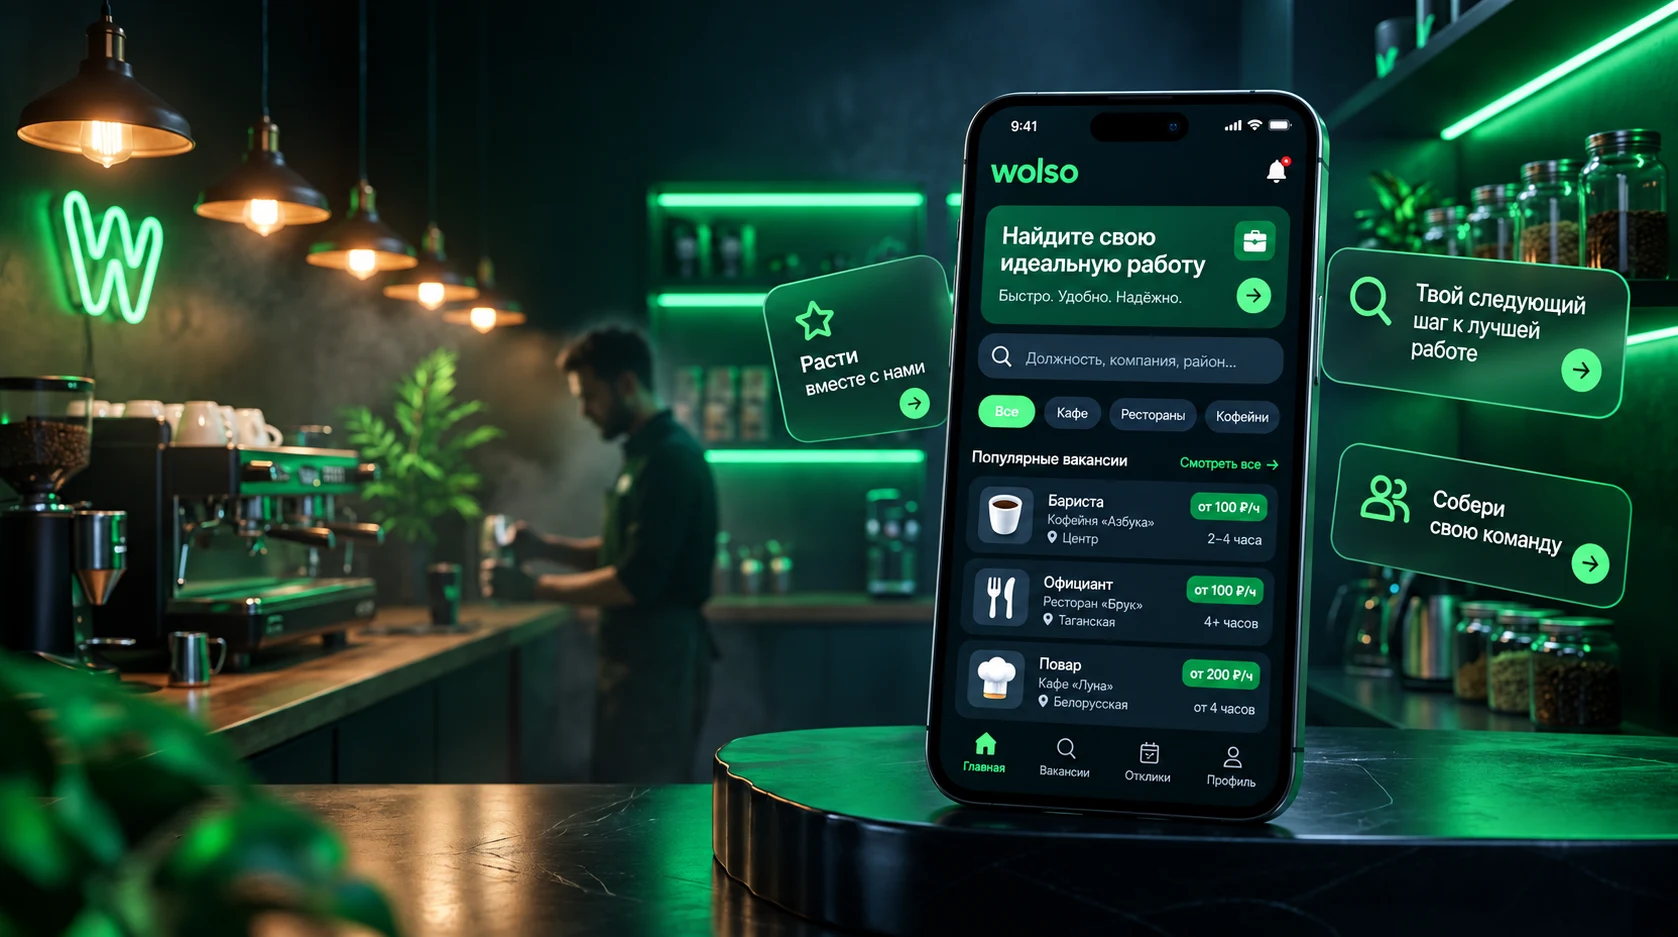
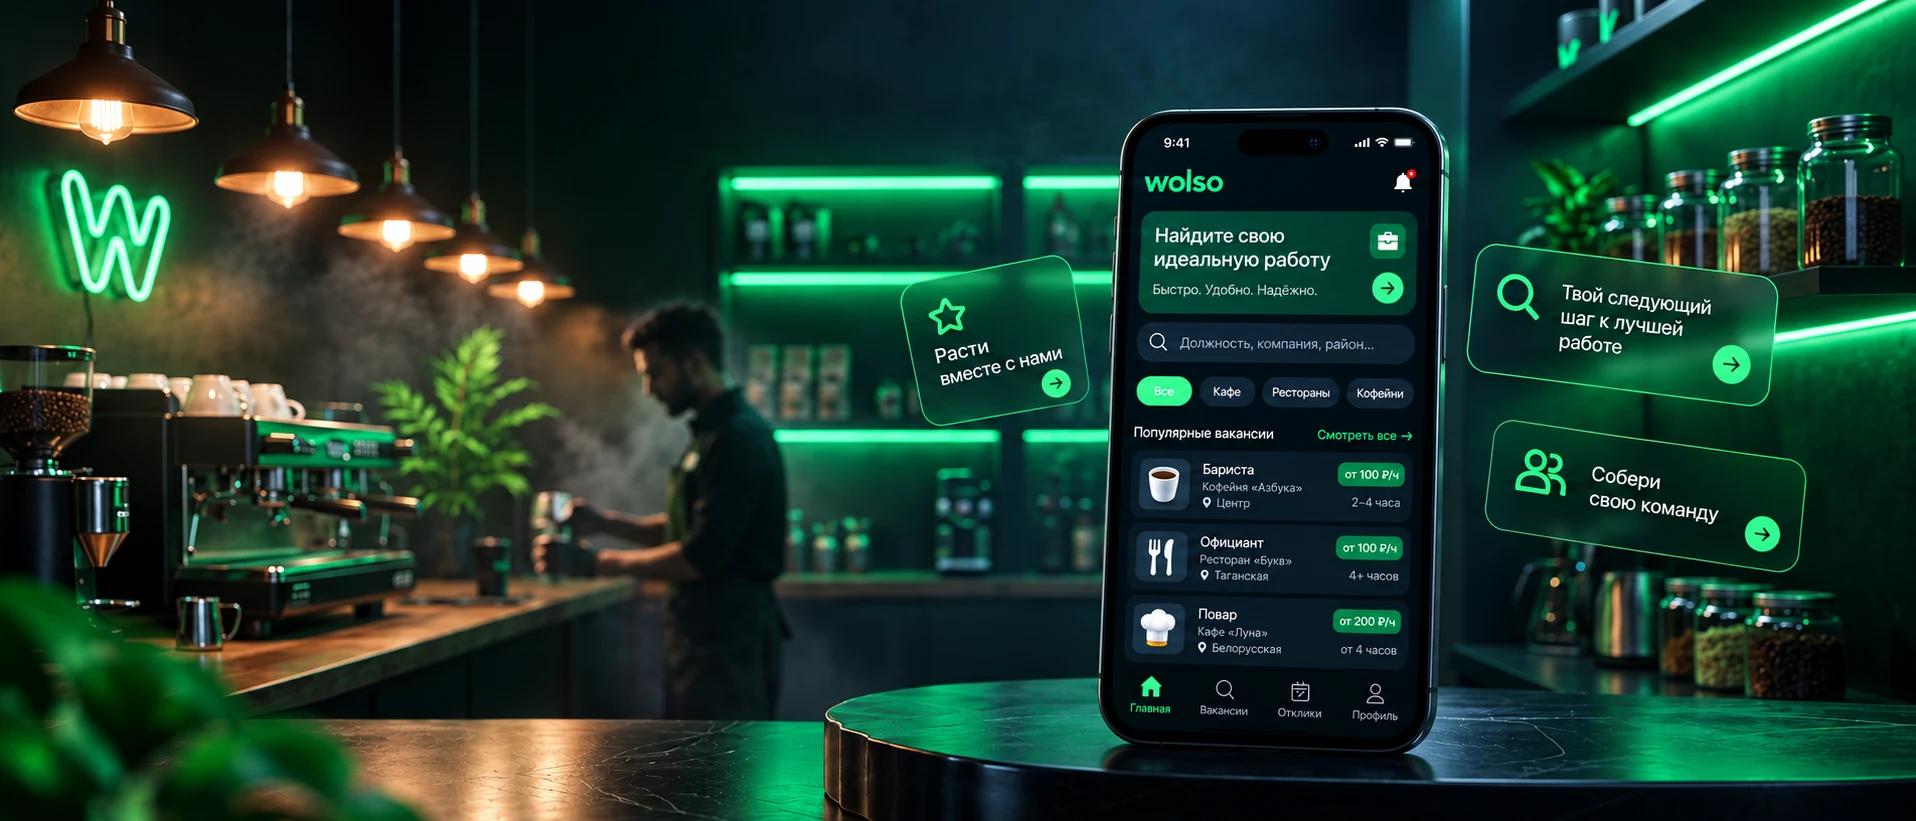
Лендинг: баннер 21:9 в герое
Новый кадр 1916x821 (2.334:1) вместо прежнего 16:9. WebP 162 КБ,
исходный PNG на 1.8 МБ убран в art-source.

Высота панели пересчитана под пропорции баннера, чтобы кадр вставал
целиком. Правый край картинки прижат к краю панели: если она всё же
не влезает по ширине, срезается только левая часть с интерьером,
поверх которого и так лежит текст, а телефон с карточками остаются
целы. На 1920 и 1440 обрезки нет вовсе, на 1200 — 11% слева.

Бегущая строка должностей вынесена из панели наружу: внутри она либо
добавляла высоты (панель становилась «квадратнее» баннера, и cover
срезал картинку по бокам вместе с карточками), либо закрывала низ
кадра со стойкой.

Ниже 1180 px раскладка встаёт в столбик — баннер отдельным блоком под
текстом, целиком. Ниже 700 px он вырождается в полоску, где ничего не
разобрать, поэтому там кадрируем его на телефон.

Claude-Session: https://claude.ai/code/session_01PDNd8FkHimMpEN3t51WUAH

diff --git a/landing/index.html b/landing/index.html
@@ -276,7 +276,10 @@
     width: 100%;
     height: 100%;
     object-fit: cover;
-    object-position: center;
+    /* Правый край прижат к краю панели: если баннер не влезает по
+       ширине, срезается только левая часть — там интерьер, поверх
+       которого и так лежит текст. Телефон и карточки остаются целы. */
+    object-position: 100% center;
     z-index: 0;
   }
   /* Затемнение слева — иначе заголовок теряется на светлых лампах. */
@@ -298,34 +301,32 @@
     z-index: 2;
     display: flex;
     align-items: center;
-    min-height: clamp(540px, 53vw, 800px);
-    padding-top: 48px;
-    padding-bottom: 48px;
+    /* Высота считается из пропорций баннера (21:9): так кадр встаёт
+       целиком, без обрезки по бокам, где лежат парящие карточки. */
+    min-height: clamp(460px, 42vw, 720px);
+    padding-top: 40px;
+    padding-bottom: 40px;
   }
   /* Ширина колонки подобрана так, чтобы строки заголовка обрывались
      до парящей карточки на баннере и не наезжали на неё. */
-  .hero-top { max-width: 520px; }
+  .hero-top { max-width: min(520px, 42%); }
 
-  /* Бегущая строка лежит поверх нижнего края картинки — притемняем
-     её полосу, иначе должности теряются на бликах стойки. */
-  .hero-panel .marquee {
-    margin-top: 0;
-    background: rgba(7, 9, 8, 0.74);
-    backdrop-filter: blur(9px);
-    -webkit-backdrop-filter: blur(9px);
-  }
-
-  /* Узко — картинка перестаёт быть фоном и встаёт отдельным блоком под
-     текстом: поверх телефона читать заголовок невозможно. */
-  @media (max-width: 940px) {
+  @media (max-width: 1180px) {
     .hero-panel { display: flex; flex-direction: column; }
-    .hero-panel .wrap { order: 1; min-height: 0; padding-top: 44px; padding-bottom: 0; }
+    /* width: 100% обязателен — у .wrap margin: 0 auto, а авто-поля
+       в колоночном флексе отменяют растягивание, и блок съёживается
+       до ширины самой длинной строки. */
+    .hero-panel .wrap { order: 1; width: 100%; min-height: 0; padding-top: 44px; padding-bottom: 0; }
     /* На узком экране баннер во всю ширину превращается в тонкую полоску,
        где ничего не разобрать. Поэтому кадрируем его на телефон. */
-    .hero-bg { order: 2; position: static; width: 100%; height: auto; margin-top: 28px; aspect-ratio: 16 / 11; object-fit: cover; object-position: 66% center; }
-    .hero-panel .marquee { order: 3; }
+    .hero-bg { order: 2; position: static; width: 100%; height: auto; aspect-ratio: auto; margin-top: 28px; }
     .hero-panel::before { background: linear-gradient(180deg, rgba(7,9,8,0.5) 0%, rgba(7,9,8,0) 24%); }
     .hero-top { max-width: none; }
+  }
+  /* Ниже 700 px баннер 21:9 вырождается в полоску, где ничего не
+     разобрать, — кадрируем его на телефон. */
+  @media (max-width: 700px) {
+    .hero-bg { aspect-ratio: 16 / 11; object-fit: cover; object-position: 66% center; }
   }
   @media (max-width: 560px) {
     .hero-bg { aspect-ratio: 4 / 5; object-position: 71% center; }
@@ -337,11 +338,11 @@
     font-weight: 700;
     line-height: 1.0;
     letter-spacing: -0.04em;
-    margin: 22px 0 22px;
+    margin: 16px 0 18px;
   }
   .hero-panel h1 .accent { color: var(--accent); }
-  .hero-sub { font-size: 17.5px; line-height: 1.58; color: var(--text-muted); max-width: 47ch; margin: 0 0 32px; }
-  .hero-ctas { display: flex; align-items: center; gap: 14px; flex-wrap: wrap; margin-bottom: 22px; }
+  .hero-sub { font-size: 17.5px; line-height: 1.58; color: var(--text-muted); max-width: 47ch; margin: 0 0 26px; }
+  .hero-ctas { display: flex; align-items: center; gap: 14px; flex-wrap: wrap; margin-bottom: 18px; }
   .hero-fine { font-size: 12.5px; color: var(--text-faint); display: flex; gap: 16px; flex-wrap: wrap; }
   .hero-fine span { display: inline-flex; align-items: center; gap: 6px; }
   .hero-fine svg { width: 13px; height: 13px; color: var(--accent); }
@@ -705,7 +706,7 @@
 <main id="top">
   <!-- ============ Герой ============ -->
   <section class="hero-panel">
-    <img class="hero-bg" src="art/hero-banner.webp" width="1678" height="937" fetchpriority="high" decoding="async" alt="Лента смен Wolso в Telegram на фоне кофейни" />
+    <img class="hero-bg" src="art/hero-banner.webp" width="1916" height="821" fetchpriority="high" decoding="async" alt="Лента смен Wolso в Telegram на фоне кофейни" />
     <div class="wrap">
       <div class="hero-top">
         <span class="eyebrow">Telegram mini app · 18+</span>
@@ -726,10 +727,11 @@
       </div>
     </div>
 
-    <div class="marquee">
-      <div class="marquee-track" id="marquee"></div>
-    </div>
   </section>
+
+  <div class="marquee">
+    <div class="marquee-track" id="marquee"></div>
+  </div>
 
   <!-- ============ Как это работает ============ -->
   <section class="band" id="how">
